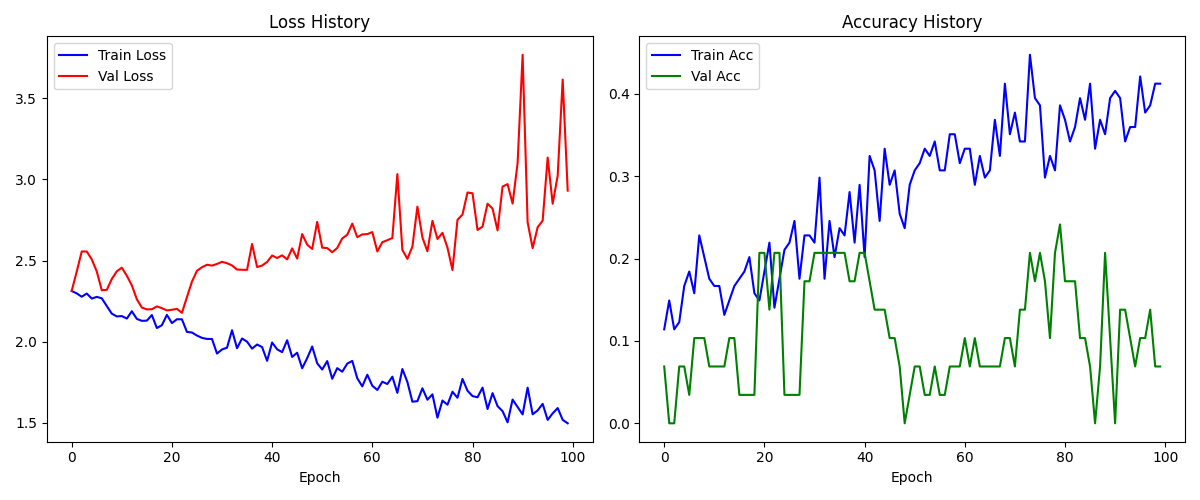
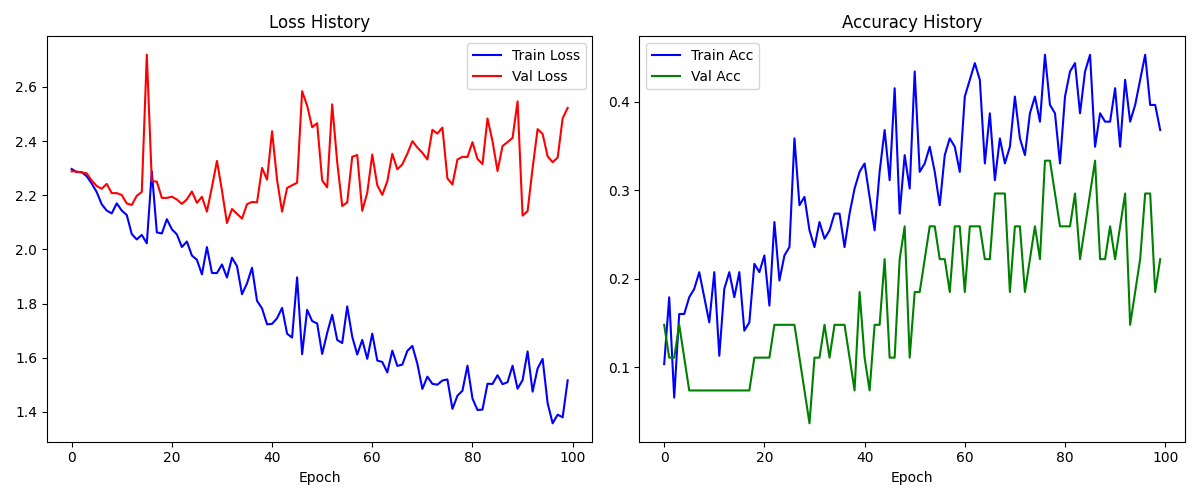
update training parameter

diff --git a/config.py b/config.py
@@ -22,10 +22,10 @@ PERFORMANCE_PLOT_PATH = os.path.join(MODEL_DIR, 'training_performance.png')
 # ==========================================
 # MODEL HYPERPARAMETERS
 # ==========================================
-SEQUENCE_LENGTH = 30  # Number of frames per "specimen" (video)
+SEQUENCE_LENGTH = 45  # Number of frames per "specimen" (video)
 LANDMARK_FEATURES = 126  # 21 points * 3 (xyz) * 2 hands
-HIDDEN_SIZE = 256
-NUM_LAYERS = 3
+HIDDEN_SIZE = 128
+NUM_LAYERS = 2
 DROPOUT = 0.7
 
 # ==========================================

diff --git a/preprocess.py b/preprocess.py
@@ -62,7 +62,7 @@ def main():
   # ==========================================
   # 1. DYNAMIC DATA MINING (Forcing Yes/No)
   # ==========================================
-  REQUIRED_WORDS = ['yes', 'no']
+  REQUIRED_WORDS = ['yes', 'no', 'hello']
   other_word_counts = []
   required_entries = []
 
@@ -93,7 +93,7 @@ def main():
 
   # Sort the pool by popularity and take the top 8 to fill the 10-word limit
   other_word_counts.sort(key=lambda x: x['count'], reverse=True)
-  target_entries = required_entries + other_word_counts[:8]
+  target_entries = required_entries + other_word_counts[:7]
 
   # Sort alphabetically so the indexes stay consistent
   target_entries.sort(key=lambda x: x['gloss'])